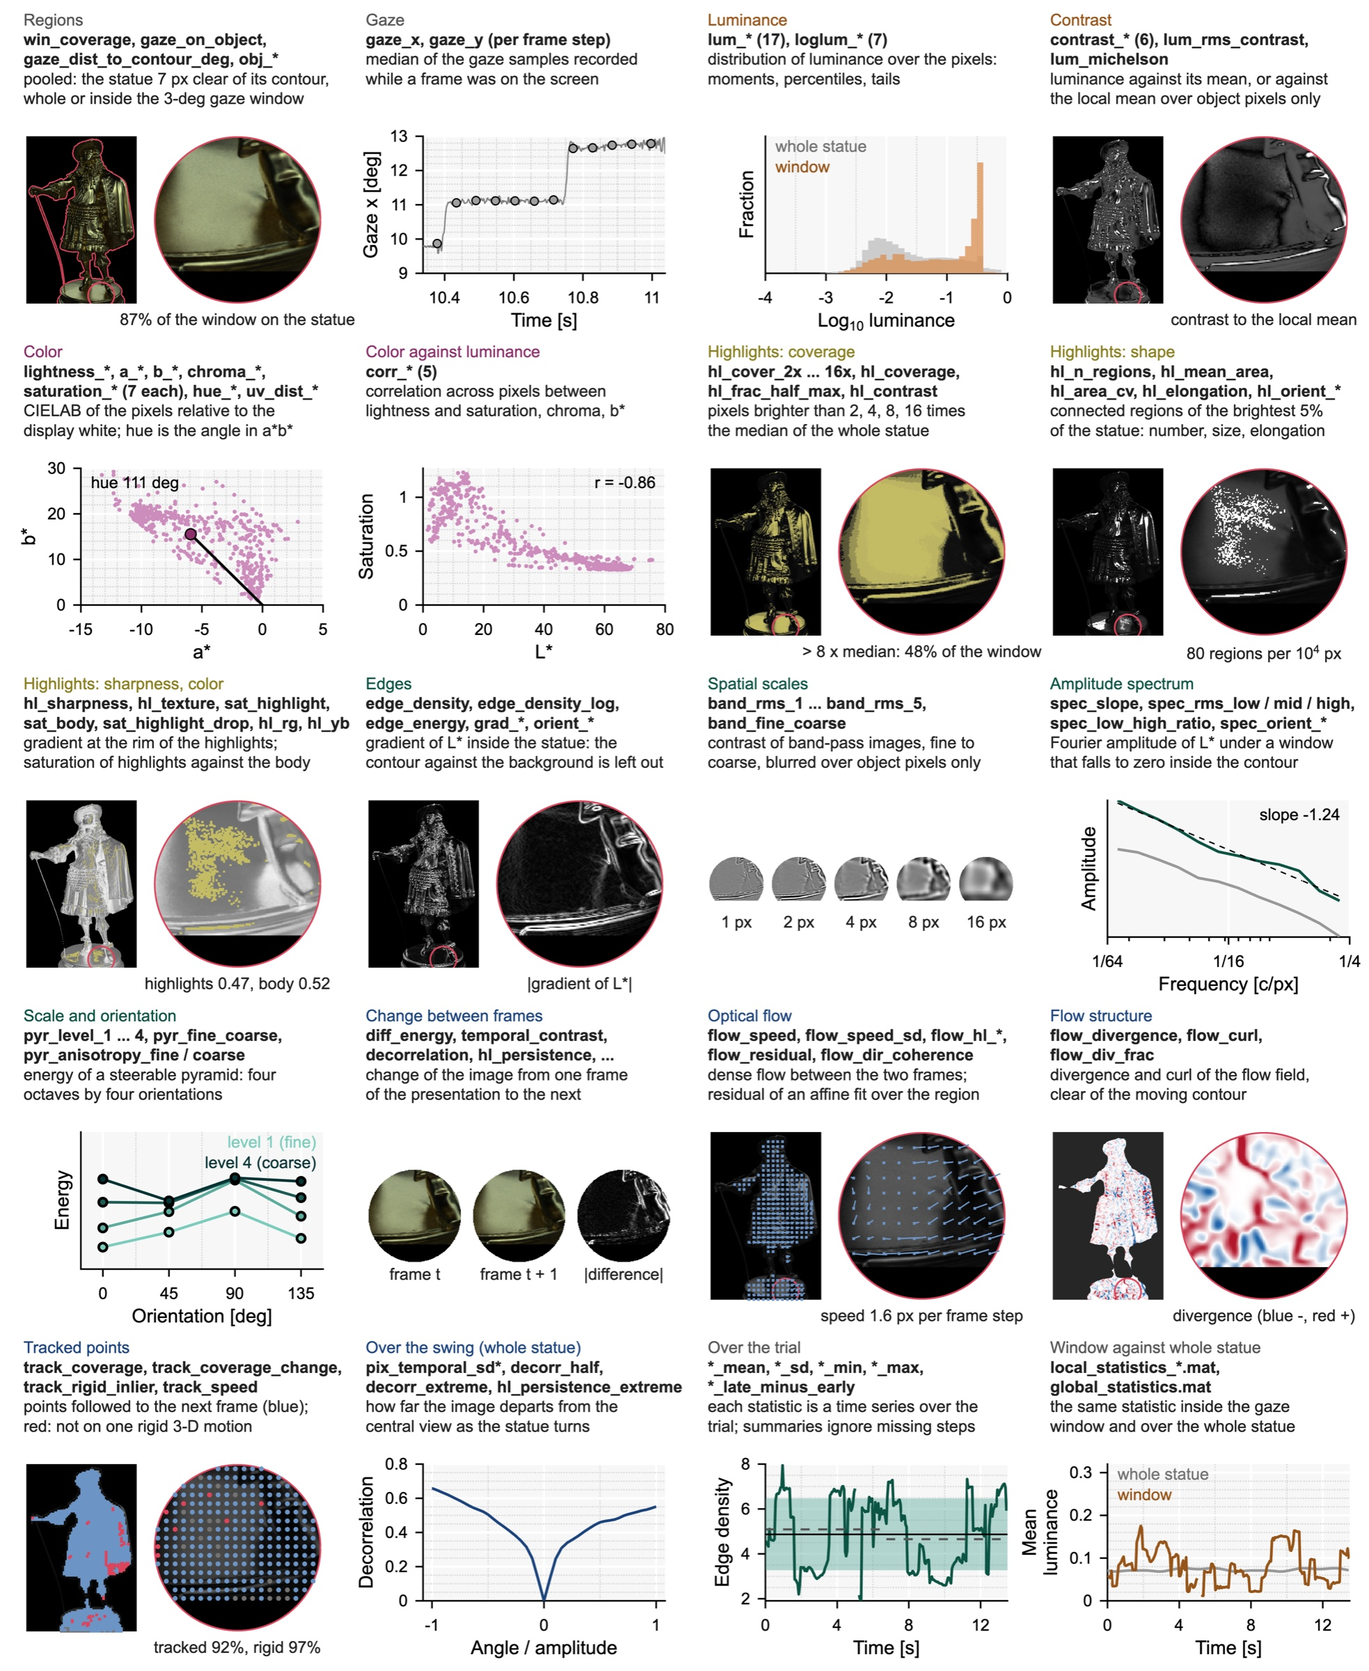
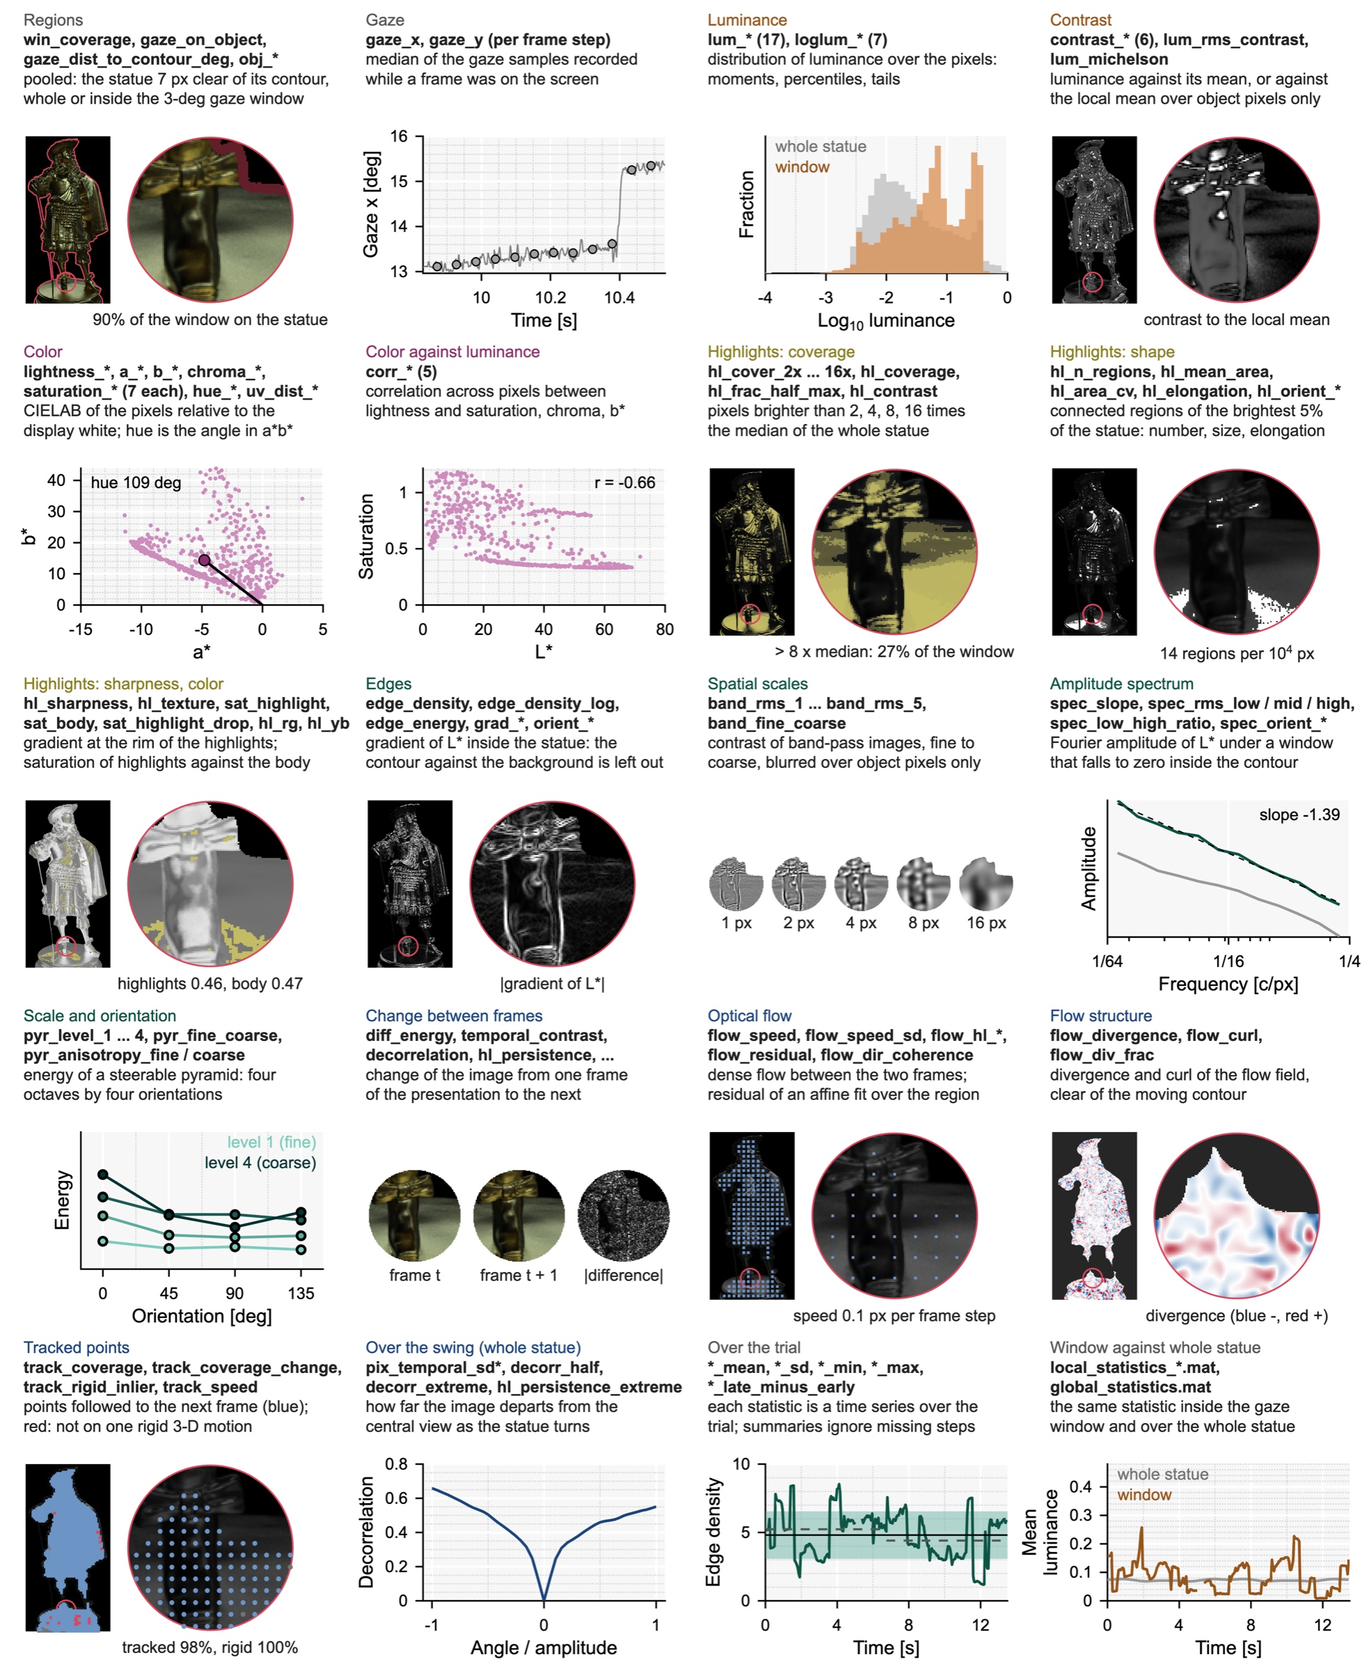
Trials start at the left extreme; visual angle of the stimulus (27.6 deg) set in display_config.json

diff --git a/utils/analysis_config.m b/utils/analysis_config.m
@@ -9,14 +9,18 @@ function cfg = analysis_config()
 %
 %   VALUES TO CONFIRM against the experiment (marked "CONFIRM" below):
 %     cfg.presentation.timing          how gaze time is turned into a frame
-%     cfg.presentation.first_half      which half-swing was shown first
-%     cfg.display.image_size_deg       visual angle of the stimulus image
-%   The first two only affect the conversion of gaze samples (time ->
-%   frame). The visual angle sets the size of the gaze window in pixels; of
-%   the statistics of the whole statue, it enters only the four of the
-%   silhouette expressed in degrees (obj_*_deg) and the two contrast
-%   statistics that use a local mean over cfg.stats.blur_deg
-%   (contrast_local_blur, contrast_meese_summers_blur).
+%     cfg.presentation.start_frame     the view shown first in a trial
+%   They only affect the conversion of gaze samples (time -> frame); the
+%   statistics of the whole statue do not depend on them.
+%
+%   VISUAL ANGLE. The visual angle of the stimulus image is not set here
+%   but in display_config.json, in the folder of the repository
+%   (image_size_deg). It gives the number of image pixels per degree, which
+%   sets the size of the gaze window (cfg.window.radius_deg) and enters the
+%   few statistics defined in degrees: those of the silhouette and of the
+%   gaze position whose names end in _deg, and the two contrast statistics
+%   that use a local mean over cfg.stats.blur_deg (contrast_local_blur,
+%   contrast_meese_summers_blur).
 
 cfg = struct();
 cfg.root = fileparts(fileparts(mfilename('fullpath')));
@@ -53,14 +57,19 @@ cfg.stimulus.image_size_px  = 1024;        % frames are square
 %% ---- Presentation ------------------------------------------------------
 % The 61 rendered frames sample one sinusoidal swing of the statue at equal
 % time steps: frame 1 is the central view, frames 2-31 run from the centre
-% to one extreme and frames 32-61 from the centre to the other extreme (the
-% steps between frames shrink toward each extreme, as a sinusoid does). One
-% cycle is centre -> extreme -> centre -> other extreme -> centre, that is
-% 4 x 30 = 120 frame steps, and a trial shows two cycles (240 frame steps).
-% See utils/presentation_sequence.m.
+% to the extreme on the right and frames 32-61 from the centre to the
+% extreme on the left (the steps between frames shrink toward each extreme,
+% as a sinusoid does). In the order of the rotation angle the frames are
+% 61 60 ... 32 1 2 ... 31; from frame 61 to frame 31 the visible surface of
+% the statue moves to the right in the image.
+% A trial starts at the extreme on the left (frame 61), swings to the right
+% (to frame 31) and back to the left: 61 60 ... 32 1 2 ... 31 30 ... 2 1 32
+% ... 60, that is 4 x 30 = 120 frame steps per cycle, and shows two cycles
+% (240 frame steps). See utils/presentation_sequence.m.
 cfg.presentation.frames_per_quarter = 30;
 cfg.presentation.n_cycles           = 2;
-cfg.presentation.first_half         = 1;      % CONFIRM: 1 = frames 2-31 first, 2 = frames 32-61 first
+cfg.presentation.start_frame        = 61;     % CONFIRM: frame shown first: 61 = extreme on the left, 1 = central view, 31 = extreme on the right
+cfg.presentation.start_direction    = 1;      % first movement if the trial starts between the extremes: 1 = to the right (toward frame 31), -1 = to the left
 % Timing. The gaze recordings last 13.50 to 13.57 s. How a gaze sample is
 % assigned to a frame step (utils/gaze_per_step.m):
 %   'recording'  the 240 frame steps are spread evenly over each recording,
@@ -80,8 +89,14 @@ cfg.presentation.trial_duration_s   = 13.5;          % nominal duration of a tri
 % [left top width height]; utils/screen_to_image.m converts with it. For
 % gaze in screen pixels, put the rectangle of the image on the screen here.
 cfg.display.image_rect_px  = [0 0 1080 1080];
-cfg.display.image_size_deg = 20;                                   % CONFIRM: visual angle of the stimulus image [deg]
-cfg.display.px_per_deg     = cfg.stimulus.image_size_px / cfg.display.image_size_deg;   % image pixels per degree
+% Pixels and degrees. display_config.json holds the visual angle that the
+% stimulus image spans (image_size_deg): 27.6 deg, an image 39.3 cm high
+% viewed from 80 cm, 2 * atan(39.3 / (2 * 80)). It is the only place where
+% the visual angle is set. Pixels and degrees are converted linearly
+% (utils/px_to_deg.m, utils/deg_to_px.m).
+cfg.display.config_file    = fullfile(cfg.root, 'display_config.json');
+cfg.display.image_size_deg = read_image_size_deg(cfg.display.config_file);
+cfg.display.px_per_deg     = cfg.stimulus.image_size_px / cfg.display.image_size_deg;    % image pixels per degree
 
 %% ---- Object mask and the handling of its edge --------------------------
 % The statue is rendered against a background that is exactly black. Its
@@ -112,7 +127,7 @@ cfg.edge.border_px = 7;            % band left out of every pixel statistic
 cfg.edge.taper_px  = 8;            % width of the smooth fall of the spectral window
 
 %% ---- Gaze window (local statistics) ------------------------------------
-cfg.window.radius_deg   = 1.5;     % radius of the circular window centred on gaze (default; an argument of compute_local_statistics)
+cfg.window.radius_deg   = 1.5;     % radius of the circular window centred on gaze [deg] (default; an argument of compute_local_statistics)
 cfg.window.min_coverage = 0.10;    % below this fraction of the window on the object, statistics are NaN
 cfg.window.taper_frac   = 0.25;    % outer fraction of the radius over which the spectral window falls to zero
 cfg.window.nfft         = 256;     % smallest FFT size of the window (zero-padded; larger windows use the next power of 2)
@@ -146,4 +161,15 @@ cfg.paths.cache        = fullfile(cfg.root, 'results', 'cache');
 cfg.paths.videos       = fullfile(cfg.root, 'results', 'videos');
 
 cfg.rng_seed = 0;                  % seed of every randomized step of the analysis
+end
+
+% =========================================================================
+function deg = read_image_size_deg(file)
+% Visual angle of the stimulus image [deg] from display_config.json.
+assert(exist(file, 'file') == 2, 'analysis_config:display', ...
+    'File not found: %s\nIt holds the visual angle of the stimulus image, for example {"image_size_deg": 27.6}.', file);
+D = jsondecode(fileread(file));
+assert(isfield(D, 'image_size_deg') && isnumeric(D.image_size_deg) && isscalar(D.image_size_deg) && D.image_size_deg > 0, ...
+    'analysis_config:display', 'image_size_deg in %s must be a positive number: the visual angle of the stimulus image in degrees.', file);
+deg = D.image_size_deg;
 end

diff --git a/utils/presentation_sequence.m b/utils/presentation_sequence.m
@@ -6,11 +6,17 @@ function seq = presentation_sequence(cfg)
 %   frames sample the swing at equal time steps:
 %
 %       frame  1        central view (angle 0)
-%       frames 2 - 31   centre -> one extreme   (angle  sin(pi/2 * k/30))
-%       frames 32 - 61  centre -> other extreme (angle -sin(pi/2 * k/30))
+%       frames 2 - 31   centre -> extreme on the right (angle  sin(pi/2 * k/30))
+%       frames 32 - 61  centre -> extreme on the left  (angle -sin(pi/2 * k/30))
 %
-%   One cycle shows 1 2 ... 31 30 ... 2 1 32 ... 61 60 ... 32, that is 120
-%   frame steps, and a trial shows cfg.presentation.n_cycles cycles.
+%   In the order of the rotation angle the frames are 61 60 ... 32 1 2 ...
+%   31. A cycle walks through this order and back, 120 frame steps, from
+%   the frame shown first (cfg.presentation.start_frame): with frame 61,
+%   the extreme on the left, a cycle is 61 60 ... 32 1 2 ... 31 30 ... 2 1
+%   32 ... 60 (to the right, then back to the left). If the trial starts
+%   between the extremes (frame 1 is the central view),
+%   cfg.presentation.start_direction gives the first movement: 1 to the
+%   right, -1 to the left. A trial shows cfg.presentation.n_cycles cycles.
 %
 %   Fields of seq (T = number of frame steps of a trial):
 %     frame       1 x T   rendered frame shown at each step
@@ -37,13 +43,21 @@ nf = cfg.stimulus.n_frames;                         % 61
 assert(nf == 2 * q + 1, 'presentation_sequence:frames', ...
     'Expected %d frames for %d steps per quarter cycle.', 2 * q + 1, q);
 
-half_a = [1:(q + 1), q:-1:2];                       % 1 2 ... 31 30 ... 2
-half_b = [1, (q + 2):nf, (nf - 1):-1:(q + 2)];      % 1 32 ... 61 60 ... 32
-if cfg.presentation.first_half == 1
-    cycle = [half_a, half_b];
-else
-    cycle = [half_b, half_a];
+% frames sorted by rotation angle; a cycle walks through them and back
+order = [nf:-1:(q + 2), 1:(q + 1)];                 % 61 60 ... 32 1 2 ... 31
+start = cfg.presentation.start_frame;
+step  = cfg.presentation.start_direction;           % 1: toward frame 31 (right), -1: toward frame 61 (left)
+assert(isscalar(start) && ismember(start, 1:nf), 'presentation_sequence:start', ...
+    'cfg.presentation.start_frame must be a frame number between 1 and %d.', nf);
+assert(isscalar(step) && abs(step) == 1, 'presentation_sequence:direction', ...
+    'cfg.presentation.start_direction must be 1 or -1.');
+r = zeros(1, 4 * q);
+r(1) = find(order == start);
+for k = 2:4 * q
+    if r(k - 1) + step < 1 || r(k - 1) + step > nf, step = -step; end   % turn at an extreme
+    r(k) = r(k - 1) + step;
 end
+cycle = order(r);
 seq.frame = repmat(cycle, 1, cfg.presentation.n_cycles);
 T = numel(seq.frame);
 
@@ -58,7 +72,7 @@ seq.frame_angle(q + 2:nf)  = -sin(pi / 2 * (1:q) / q);
 seq.angle = seq.frame_angle(seq.frame);
 
 % frames sorted by angle, and the pairs of neighbours in that order
-seq.order = [nf:-1:(q + 2), 1:(q + 1)];
+seq.order = order;
 seq.rank  = zeros(1, nf);
 seq.rank(seq.order) = 1:nf;
 seq.pair_frames = [seq.order(1:end - 1)', seq.order(2:end)'];

diff --git a/utils/px_to_deg.m b/utils/px_to_deg.m
@@ -1,0 +1,26 @@
+function deg = px_to_deg(px, cfg)
+% PX_TO_DEG  Convert a length in image pixels to degrees of visual angle.
+%
+%   deg = px_to_deg(px) converts lengths in pixels of the 1024-px stimulus
+%   image to degrees of visual angle, with the visual angle of the image
+%   given in display_config.json (image_size_deg). px can be an array.
+%   deg = px_to_deg(px, cfg) uses the configuration cfg instead of reading
+%   the file again.
+%
+%   Most statistics that are lengths or speeds are stored in pixels (see
+%   statistic_catalog); this function is for reporting them in degrees. For
+%   example, with a result of compute_local_statistics, the speed of the
+%   optical flow in degrees per second:
+%
+%     k = strcmp(Lc.names, 'flow_speed');                        % px per frame step
+%     speed = px_to_deg(Lc.values(1, :, k)) ./ median(diff(Lc.time(1, :)));
+%
+%   The conversion is linear (degrees = pixels x degrees per pixel). For an
+%   image 27.6 deg wide, a degree at the centre of the image is 2% fewer
+%   pixels than this average over the image (36.4 instead of 37.1).
+%
+%   See also DEG_TO_PX.
+
+if nargin < 2, cfg = analysis_config(); end
+deg = px / cfg.display.px_per_deg;
+end

diff --git a/utils/deg_to_px.m b/utils/deg_to_px.m
@@ -1,0 +1,16 @@
+function px = deg_to_px(deg, cfg)
+% DEG_TO_PX  Convert a length in degrees of visual angle to image pixels.
+%
+%   px = deg_to_px(deg) converts lengths in degrees of visual angle to
+%   pixels of the 1024-px stimulus image, with the visual angle of the
+%   image given in display_config.json (image_size_deg). deg can be an
+%   array. For example, deg_to_px(1.5) is the radius of the default gaze
+%   window in pixels.
+%   px = deg_to_px(deg, cfg) uses the configuration cfg instead of reading
+%   the file again.
+%
+%   See also PX_TO_DEG.
+
+if nargin < 2, cfg = analysis_config(); end
+px = deg * cfg.display.px_per_deg;
+end

diff --git a/README.md b/README.md
@@ -6,10 +6,10 @@ and around the gaze position of an observer. All code is MATLAB.
 ![The nine conditions, the swing of the statue, a recorded gaze path with the gaze window, and five views across the swing](docs/stimuli.jpg)
 
 *The stimuli. (a) The nine conditions: three statues in three materials. (b) The
-statue swings sinusoidally about its central view for two cycles; the 240 frame
-steps of a trial are drawn from 61 rendered frames. (c) The gaze path of one
-trial and the window in which the local statistics are computed. (d) Five views
-across the swing.*
+statue swings sinusoidally about its central view for two cycles, from the left
+to the right and back; the 240 frame steps of a trial are drawn from 61
+rendered frames. (c) The gaze path of one trial and the window in which the
+local statistics are computed. (d) Five views across the swing.*
 
 ![Overview of the statistics: one panel per kind of statistic](docs/statistics_overview.jpg)
 
@@ -37,8 +37,9 @@ definitions.*
 
 In the experiment, observers viewed a rendered statue in one of nine conditions
 (three statues: B, H, P; three materials: C, R, S). The statue swung
-sinusoidally about its central view for two cycles while the observers answered
-questions about it, and their eye movements were recorded with an EyeLink.
+sinusoidally about its central view for two cycles in about 13.5 s (to the
+right, then back to the left) while the observers answered questions about it,
+and their eye movements were recorded with an EyeLink.
 
 The repository computes a broad set of statistics of those stimuli (luminance,
 color, contrast, highlights, spatial structure, motion) in two ways:
@@ -122,7 +123,8 @@ compute_local_statistics(trajectory_file, radius_deg)
 
 * `trajectory_file`: a csv file of eye movements (format in section 5)
 * `radius_deg`: radius of the window around the gaze position, in degrees of
-  visual angle (optional; default 1.5, a window 3 deg across)
+  visual angle (optional; default 1.5, a window 3 deg across: 111 of the 1024
+  pixels of the image, which spans 27.6 deg)
 
 For example, with one of the three recordings in `data/trajectories/`:
 
@@ -320,34 +322,62 @@ How to read a bar:
 
 ## 8. Settings to check
 
-Every setting is in [`utils/analysis_config.m`](utils/analysis_config.m). Three
+Every setting is in [`utils/analysis_config.m`](utils/analysis_config.m). Two
 values describe the experiment. They are the current working assumptions and
 are marked `CONFIRM` in that file; change them there if the experiment was
-different, and compute the statistics again.
+different, and run step 3 again.
 
 | Setting | Current value | Used for |
 | --- | --- | --- |
-| `cfg.display.image_size_deg` | 20 (the stimulus image spans 20 deg) | the size of the window in pixels: 51.2 image pixels per degree, so a radius of 1.5 deg is 77 px |
 | `cfg.presentation.timing` | `'recording'`: the 240 frame steps are spread evenly over each recording (13.5 s, about 56 ms per step) | which frame was on the screen at each gaze sample |
-| `cfg.presentation.first_half` | 1 (frames 2-31 first) | the same |
+| `cfg.presentation.start_frame` | 61: a trial starts at the extreme on the left, swings to the right and back | the same |
 
-The timing and the order of the half-swings only affect the local statistics.
-The visual angle also enters six global statistics: the four of the silhouette
-that are expressed in degrees (`obj_width_deg`, `obj_height_deg`,
-`obj_centroid_x_deg`, `obj_centroid_y_deg`) and the two contrast statistics
-that use a local mean over 0.5 deg (`contrast_local_blur`,
-`contrast_meese_summers_blur`). After changing `image_size_deg`, run steps 2
-and 3 again.
+They only affect the local statistics.
+
+**The visual angle.** The visual angle that the stimulus image spans is set in
+[`display_config.json`](display_config.json), in the folder of the repository,
+and nowhere else:
+
+```json
+{
+  "image_size_deg": 27.6
+}
+```
+
+In the experiment the image was 39.3 cm high (the full height of the display)
+and was viewed from 80 cm, so it spanned 2 x atan(39.3 / (2 x 80)) = 27.6 deg.
+With the 1024 pixels of the stimulus image, one degree is 37.1 image pixels,
+and the default window of radius 1.5 deg is 55.7 pixels in radius. The value
+sets the size of the gaze window and enters the statistics that are defined in
+degrees: the six whose names end in `_deg` (size and position of the
+silhouette, position of gaze) and the two contrast statistics that use a local
+mean over 0.5 deg (`contrast_local_blur`, `contrast_meese_summers_blur`). After
+changing it, run steps 2 and 3 again.
+
+Pixels and degrees are converted linearly. `px_to_deg` and `deg_to_px` (in
+`utils/`) do the conversion with the value of the file, for example to express
+the speed of the optical flow in degrees per second:
+
+```matlab
+addpath utils
+k = strcmp(Lc.names, 'flow_speed');                                   % pixels per frame step
+speed = px_to_deg(Lc.values(1, :, k)) ./ median(diff(Lc.time(1, :)));   % degrees per second
+```
 
 **The presentation.** The 61 frames sample one sinusoidal swing at equal time
-steps: frame 1 is the central view, frames 2-31 run from the centre to one
-extreme and frames 32-61 from the centre to the other extreme. One cycle is
-1, 2, ..., 31, 30, ..., 2, 1, 32, ..., 61, 60, ..., 32 (120 frame steps), and a
-trial shows two cycles (240 frame steps).
+steps: frame 1 is the central view, frames 2-31 run from the centre to the
+extreme on the right and frames 32-61 from the centre to the extreme on the
+left. A trial starts at the extreme on the left (frame 61), swings to the right
+and comes back: one cycle is 61, 60, ..., 32, 1, 2, ..., 31, 30, ..., 2, 1, 32,
+..., 60 (120 frame steps), and a trial shows two cycles (240 frame steps).
 [`utils/presentation_sequence.m`](utils/presentation_sequence.m) returns the
-frame shown at every step. With `timing = 'recording'` a recording is taken to
-span exactly the two cycles; if the recordings include time before or after the
-motion, or the frames were shown at a fixed rate, set `timing = 'nominal'` and
+frame shown at every step. For a trial that starts at the central view, set
+`start_frame = 1` (and `cfg.presentation.start_direction`, 1 for a first
+movement to the right, -1 to the left).
+
+With `timing = 'recording'` a recording is taken to span exactly the two
+cycles; if the recordings include time before or after the motion, or the
+frames were shown at a fixed rate, set `timing = 'nominal'` and
 `cfg.presentation.trial_duration_s`.
 
 Other settings that are likely to be changed are the default radius of the
@@ -386,10 +416,10 @@ statistics (127 per frame, 20 per frame pair, 8 per condition) and a local file
 148 (6 + 122 + 20).
 
 **Units.** Luminance is linear with 1 = display white; L\*, a\*, b\* are
-CIELAB relative to the display white. Lengths are in image pixels unless the
-name ends in `_deg`. Motion is per frame step of the presentation; divide by
-`cfg.display.px_per_deg` and by the duration of a frame step (the spacing of
-`Lc.time`, about 0.056 s) for degrees per second.
+CIELAB relative to the display white. Lengths are in pixels of the 1024-px
+image unless the name ends in `_deg`. Motion is in pixels per frame step of the
+presentation; convert with `px_to_deg` and divide by the duration of a frame
+step (the spacing of `Lc.time`, about 0.056 s) for degrees per second.
 
 **Highlights** are defined relative to the whole statue in that frame (the
 brightest 5% of its pixels; multiples of its median luminance), so that their
@@ -464,8 +494,10 @@ demo.m                        runs everything on the three example recordings
 compute_global_statistics.m   statistics of the whole statue -> results/global_statistics.mat
 compute_local_statistics.m    statistics around gaze         -> results/local_statistics_<name>_r<radius>deg.mat
 make_trajectory_video.m       video of a trial for checking by eye (optional)
+display_config.json           visual angle of the stimulus image
 utils/
   analysis_config.m           every setting (paths, presentation, display, parameters)
+  px_to_deg.m, deg_to_px.m    pixels <-> degrees of visual angle
   statistic_catalog.m         name, family and definition of every statistic
   load_frames.m               reads the stimulus files as linear RGB
   check_stimuli.m             stops with a message if stimulus files are missing
